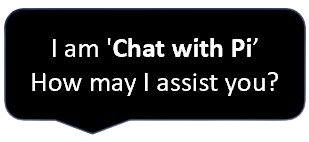
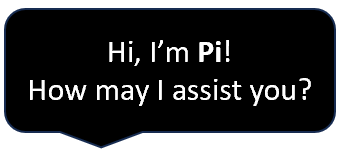
patrick changes

Changed region(s): [[0.0, 0.0282, 0.9903, 0.9577], [0.0874, 0.4789, 0.932, 0.7042], [0.1456, 0.2535, 0.8447, 0.4225]]

diff --git a/src/components/home/ChatAnswerCrad.js b/src/components/home/ChatAnswerCrad.js
@@ -75,7 +75,8 @@ function ChatAnswerCrad(prop) {
 
       <div className='d-flex justify-content-end w-100'>
         <div className='d-flex gap-2 chatAnswerLike flex-row-reverse'>
-          <svg width="10" height="30" viewBox="0 0 38 38" fill="none" xmlns="http://www.w3.org/2000/svg" style={{ width: '80%' }}><path d="M14.2503 22.1666L15.422 22.3613C15.4503 22.1912 15.4412 22.017 15.3953 21.8508C15.3494 21.6845 15.2679 21.5303 15.1564 21.3987C15.0449 21.2672 14.9061 21.1615 14.7496 21.089C14.5932 21.0166 14.4228 20.979 14.2503 20.9791V22.1666ZM31.667 22.1666V23.3541C31.9819 23.3541 32.284 23.229 32.5067 23.0063C32.7294 22.7836 32.8545 22.4815 32.8545 22.1666H31.667ZM28.5003 5.14575H10.5137V7.52075H28.5003V5.14575ZM8.61366 23.3541H14.2503V20.9791H8.61366V23.3541ZM13.0787 21.9718L11.8025 29.6273L14.1458 30.0183L15.422 22.3613L13.0787 21.9718ZM14.5353 32.8541H14.8742V30.4791H14.5369L14.5353 32.8541ZM19.8157 30.2099L23.7978 24.236L21.8218 22.9187L17.8397 28.8926L19.8157 30.2099ZM25.4445 23.3541H31.667V20.9791H25.4445V23.3541ZM32.8545 22.1666V9.49992H30.4795V22.1666H32.8545ZM6.24341 8.64492L4.34341 18.1449L6.67091 18.612L8.57091 9.112L6.24341 8.64492ZM23.7978 24.236C23.9785 23.9648 24.2233 23.744 24.5106 23.5901C24.7978 23.4363 25.1186 23.3557 25.4445 23.3557V20.9807C23.9878 20.9807 22.6293 21.7074 21.8218 22.9187L23.7978 24.236ZM11.8025 29.6273C11.7363 30.0242 11.7573 30.4324 11.8641 30.8204C11.971 31.2084 12.161 31.5685 12.4211 31.8756C12.6812 32.1827 13.0051 32.4294 13.3702 32.5987C13.7353 32.7679 14.1329 32.8541 14.5353 32.8541V30.4807C14.4779 30.4805 14.4213 30.4679 14.3692 30.4437C14.3172 30.4195 14.2711 30.3842 14.234 30.3404C14.197 30.2966 14.1699 30.2452 14.1547 30.1899C14.1394 30.1345 14.1364 30.0749 14.1458 30.0183L11.8025 29.6273ZM8.61366 20.9807C8.32082 20.9807 8.03162 20.9158 7.76691 20.7906C7.5022 20.6653 7.26858 20.4829 7.08289 20.2565C6.89721 20.0301 6.76408 19.7653 6.69311 19.4812C6.62214 19.1971 6.6151 18.9007 6.67249 18.6136L4.34341 18.1465C4.21714 18.7782 4.23263 19.4317 4.38874 20.0567C4.54486 20.6817 4.83771 21.2643 5.24619 21.7624C5.65468 22.2605 6.16861 22.6618 6.75093 22.9374C7.33325 23.2129 7.96945 23.3557 8.61366 23.3557V20.9807ZM10.5137 5.14575C9.50712 5.14555 8.5316 5.49566 7.75307 6.13362C6.97453 6.77158 6.44106 7.65798 6.24341 8.64492L8.57091 9.112C8.66034 8.66268 8.90287 8.25988 9.25716 7.96941C9.61144 7.67894 10.0555 7.52037 10.5137 7.52075V5.14575ZM14.8742 32.8541C15.8516 32.854 16.8139 32.6142 17.6757 32.153C18.5374 31.6917 19.272 31.0248 19.8142 30.2115L17.8397 28.8942C17.5143 29.3824 17.0733 29.7826 16.556 30.0594C16.0386 30.3362 15.4609 30.4793 14.8742 30.4791V32.8541ZM28.5003 7.52075C29.5928 7.52075 30.4795 8.40742 30.4795 9.49992H32.8545C32.8545 8.34512 32.3958 7.23762 31.5792 6.42106C30.7626 5.60449 29.6551 5.14575 28.5003 5.14575V7.52075Z" fill="#111111"></path><path d="M25.334 22.1666V6.33325" stroke="#111111" stroke-width="1.5"></path></svg>
+          <svg width="10" height="30" viewBox="0 0 38 38" fill="none" xmlns="http://www.w3.org/2000/svg" style={{ width: '80%' }}>
+                  <path  d="M14.2503 22.1666L15.422 22.3613C15.4503 22.1912 15.4412 22.017 15.3953 21.8508C15.3494 21.6845 15.2679 21.5303 15.1564 21.3987C15.0449 21.2672 14.9061 21.1615 14.7496 21.089C14.5932 21.0166 14.4228 20.979 14.2503 20.9791V22.1666ZM31.667 22.1666V23.3541C31.9819 23.3541 32.284 23.229 32.5067 23.0063C32.7294 22.7836 32.8545 22.4815 32.8545 22.1666H31.667ZM28.5003 5.14575H10.5137V7.52075H28.5003V5.14575ZM8.61366 23.3541H14.2503V20.9791H8.61366V23.3541ZM13.0787 21.9718L11.8025 29.6273L14.1458 30.0183L15.422 22.3613L13.0787 21.9718ZM14.5353 32.8541H14.8742V30.4791H14.5369L14.5353 32.8541ZM19.8157 30.2099L23.7978 24.236L21.8218 22.9187L17.8397 28.8926L19.8157 30.2099ZM25.4445 23.3541H31.667V20.9791H25.4445V23.3541ZM32.8545 22.1666V9.49992H30.4795V22.1666H32.8545ZM6.24341 8.64492L4.34341 18.1449L6.67091 18.612L8.57091 9.112L6.24341 8.64492ZM23.7978 24.236C23.9785 23.9648 24.2233 23.744 24.5106 23.5901C24.7978 23.4363 25.1186 23.3557 25.4445 23.3557V20.9807C23.9878 20.9807 22.6293 21.7074 21.8218 22.9187L23.7978 24.236ZM11.8025 29.6273C11.7363 30.0242 11.7573 30.4324 11.8641 30.8204C11.971 31.2084 12.161 31.5685 12.4211 31.8756C12.6812 32.1827 13.0051 32.4294 13.3702 32.5987C13.7353 32.7679 14.1329 32.8541 14.5353 32.8541V30.4807C14.4779 30.4805 14.4213 30.4679 14.3692 30.4437C14.3172 30.4195 14.2711 30.3842 14.234 30.3404C14.197 30.2966 14.1699 30.2452 14.1547 30.1899C14.1394 30.1345 14.1364 30.0749 14.1458 30.0183L11.8025 29.6273ZM8.61366 20.9807C8.32082 20.9807 8.03162 20.9158 7.76691 20.7906C7.5022 20.6653 7.26858 20.4829 7.08289 20.2565C6.89721 20.0301 6.76408 19.7653 6.69311 19.4812C6.62214 19.1971 6.6151 18.9007 6.67249 18.6136L4.34341 18.1465C4.21714 18.7782 4.23263 19.4317 4.38874 20.0567C4.54486 20.6817 4.83771 21.2643 5.24619 21.7624C5.65468 22.2605 6.16861 22.6618 6.75093 22.9374C7.33325 23.2129 7.96945 23.3557 8.61366 23.3557V20.9807ZM10.5137 5.14575C9.50712 5.14555 8.5316 5.49566 7.75307 6.13362C6.97453 6.77158 6.44106 7.65798 6.24341 8.64492L8.57091 9.112C8.66034 8.66268 8.90287 8.25988 9.25716 7.96941C9.61144 7.67894 10.0555 7.52037 10.5137 7.52075V5.14575ZM14.8742 32.8541C15.8516 32.854 16.8139 32.6142 17.6757 32.153C18.5374 31.6917 19.272 31.0248 19.8142 30.2115L17.8397 28.8942C17.5143 29.3824 17.0733 29.7826 16.556 30.0594C16.0386 30.3362 15.4609 30.4793 14.8742 30.4791V32.8541ZM28.5003 7.52075C29.5928 7.52075 30.4795 8.40742 30.4795 9.49992H32.8545C32.8545 8.34512 32.3958 7.23762 31.5792 6.42106C30.7626 5.60449 29.6551 5.14575 28.5003 5.14575V7.52075Z" fill="#111111"></path><path d="M25.334 22.1666V6.33325" stroke="#111111" stroke-width="1.5"></path></svg>
           <svg width="30" height="30" viewBox="0 0 38 38" fill="none" xmlns="http://www.w3.org/2000/svg" style={{ width: '80%' }}><path d="M23.7497 15.8334L22.578 15.6387C22.5497 15.8088 22.5588 15.983 22.6047 16.1492C22.6506 16.3155 22.7321 16.4697 22.8436 16.6013C22.9551 16.7328 23.0939 16.8385 23.2504 16.911C23.4068 16.9834 23.5772 17.021 23.7497 17.0209L23.7497 15.8334ZM6.33301 15.8334L6.33301 14.6459C6.01806 14.6459 5.71602 14.771 5.49332 14.9937C5.27062 15.2164 5.14551 15.5185 5.14551 15.8334L6.33301 15.8334ZM9.49967 32.8542L27.4863 32.8542L27.4863 30.4792L9.49967 30.4792L9.49967 32.8542ZM29.3863 14.6459L23.7497 14.6459L23.7497 17.0209L29.3863 17.0209L29.3863 14.6459ZM24.9213 16.0282L26.1975 8.37275L23.8542 7.98166L22.578 15.6387L24.9213 16.0282ZM23.4647 5.14591L23.1258 5.14591L23.1258 7.52091L23.4631 7.52091L23.4647 5.14591ZM18.1843 7.79008L14.2022 13.764L16.1782 15.0813L20.1603 9.10742L18.1843 7.79008ZM12.5555 14.6459L6.33301 14.6459L6.33301 17.0209L12.5555 17.0209L12.5555 14.6459ZM5.14551 15.8334L5.14551 28.5001L7.52051 28.5001L7.52051 15.8334L5.14551 15.8334ZM31.7566 29.3551L33.6566 19.8551L31.3291 19.388L29.4291 28.888L31.7566 29.3551ZM14.2022 13.764C14.0215 14.0352 13.7767 14.256 13.4894 14.4099C13.2022 14.5637 12.8814 14.6442 12.5555 14.6443L12.5555 17.0193C14.0122 17.0193 15.3707 16.2926 16.1782 15.0813L14.2022 13.764ZM26.1975 8.37275C26.2637 7.9758 26.2427 7.5676 26.1359 7.1796C26.029 6.7916 25.839 6.43154 25.5789 6.12444C25.3188 5.81733 24.9949 5.57057 24.6298 5.40132C24.2647 5.23206 23.8671 5.14595 23.4647 5.14591L23.4647 7.51933C23.5221 7.51947 23.5787 7.53209 23.6308 7.55631C23.6828 7.58054 23.7289 7.61579 23.766 7.65962C23.803 7.70345 23.8301 7.75481 23.8453 7.81015C23.8606 7.86548 23.8636 7.92505 23.8542 7.98166L26.1975 8.37275ZM29.3863 17.0193C29.6792 17.0193 29.9684 17.0842 30.2331 17.2094C30.4978 17.3347 30.7314 17.5171 30.9171 17.7435C31.1028 17.9699 31.2359 18.2347 31.3069 18.5188C31.3779 18.8029 31.3849 19.0993 31.3275 19.3864L33.6566 19.8535C33.7829 19.2218 33.7674 18.5683 33.6113 17.9433C33.4551 17.3183 33.1623 16.7357 32.7538 16.2376C32.3453 15.7395 31.8314 15.3382 31.2491 15.0626C30.6667 14.7871 30.0305 14.6443 29.3863 14.6443L29.3863 17.0193ZM27.4863 32.8542C28.4929 32.8544 29.4684 32.5043 30.2469 31.8664C31.0255 31.2284 31.5589 30.342 31.7566 29.3551L29.4291 28.888C29.3397 29.3373 29.0971 29.7401 28.7428 30.0306C28.3886 30.3211 27.9445 30.4796 27.4863 30.4792L27.4863 32.8542ZM23.1258 5.14591C22.1484 5.14598 21.1861 5.38578 20.3243 5.84704C19.4626 6.30831 18.728 6.97519 18.1858 7.7885L20.1603 9.10583C20.4857 8.61762 20.9267 8.21736 21.444 7.94059C21.9614 7.66382 22.5391 7.5207 23.1258 7.52091L23.1258 5.14591ZM9.49967 30.4792C8.40717 30.4792 7.52051 29.5926 7.52051 28.5001L5.14551 28.5001C5.14551 29.6549 5.60425 30.7624 6.42081 31.5789C7.23738 32.3955 8.34488 32.8542 9.49967 32.8542L9.49967 30.4792Z" fill="#111111"></path><path d="M12.666 15.8334L12.666 31.6667" stroke="#111111" stroke-width="1.5"></path></svg>
         </div>
         <span className='timeview text-muted ps-3'>{new Date(prop.answer.time_stamp).toLocaleTimeString('en-US', { hour: '2-digit', minute: '2-digit' })}</span>

diff --git a/src/components/home/NavBarHome.js b/src/components/home/NavBarHome.js
@@ -3,8 +3,6 @@ import './NavBarHome.scss'
 import HomeTitleImg from '../assets/title.png'
 
 import pocaAImg from '../assets/nexus.png'
-import { useRecoilValue } from 'recoil'
-import { loginMailId } from '../utilites/loginRecoil'
 import NavBarHomeUser from './NavBarHomeUser'
 function NavBarHome(prop) {
     const [inputvalue, setInputvalue] = useState(null)
@@ -22,29 +20,29 @@ prop.setmenuHovered(true)
     }
     return (
         <div className='navHome-container'>
-            <ul className='navHome-options bg-white  d-flex align-items-center justify-content-between ps-0'>
+            <ul className='navHome-options bg-white  d-flex align-items-center justify-content-between gap-5 ps-0'>
                 <li className='navHome-optionlogo d-flex align-items-center justify-content-between'>
                     <span className='navHome-optionlogoMenu' onMouseEnter={logoMenuMouseEnterHandle} onMouseLeave={logoMenuMouseLeaveHandle}><svg width="56" height="45" class="MuiSvgIcon-root MuiSvgIcon-fontSizeMedium css-ojjv62-MuiSvgIcon-root" fill="#A1A1A1" focusable="false" aria-hidden="true" viewBox="0 0 24 24" data-testid="SortIcon"><path d="M3 18h6v-2H3v2zM3 6v2h18V6H3zm0 7h12v-2H3v2z"></path></svg></span>
                     <img className='navHomeOptionTitle-img' src={HomeTitleImg} alt='Image of company Logo'></img>
                 </li>
-                <li className='navHome-optionSearch  align-items-center justify-content-between ps-4'>
+                {/* <li className='navHome-optionSearch  align-items-center justify-content-between ps-4'>
                     <i class="bi bi-search text-muted"></i>
                     <input type='text' className='navHomeoptionSearch-input' placeholder='Search in Discovery...' onChange={inputChangeHandler} value={inputvalue}></input>
                     {inputvalue != null && <i class="bi bi-x text-center" onClick={() => { setInputvalue('') }}></i>}
                     <button className='navHomeoptionSearch-btn text-white'>Search</button>
-                </li>
+                </li> */}
                
-                <li className='navHome-option-nexus flex items-center mx-3'>
-                    <img src={pocaAImg} className='nexusImg'></img>
+                <li className='navHome-option-nexus flex me-5'>
+                    <img src={pocaAImg} className='nexusImg pt-1'></img>
                 </li>
-                <li className='navHome-optionIcons align-items-center gap-2'>
+                {/* <li className='navHome-optionIcons align-items-center gap-2'>
                     <span ><svg width="35" height="35" viewBox="0 0 31 31" fill="none" xmlns="http://www.w3.org/2000/svg" style={{ width: '60%' }}><circle cx="3.69048" cy="3.69048" r="3.69048" fill="#A1A1A1"></circle><circle cx="15.4991" cy="3.69048" r="3.69048" fill="#A1A1A1"></circle><circle cx="27.3096" cy="3.69048" r="3.69048" fill="#A1A1A1"></circle><circle cx="3.69048" cy="15.5" r="3.69048" fill="#A1A1A1"></circle><circle cx="15.4991" cy="15.5" r="3.69048" fill="#A1A1A1"></circle><circle cx="27.3096" cy="15.5" r="3.69048" fill="#A1A1A1"></circle><circle cx="3.69048" cy="27.3096" r="3.69048" fill="#A1A1A1"></circle><circle cx="15.4991" cy="27.3096" r="3.69048" fill="#A1A1A1"></circle><circle cx="27.3096" cy="27.3096" r="3.69048" fill="#A1A1A1"></circle></svg></span>
                     <span className='navHome-optionIconsHolder'><svg viewBox="0 0 22 22" fill='none' xmlns="http://www.w3.org/2000/svg"><g clip-path="url(#clip0_3101_16189)"><path d="M12.8333 2.75V6.41667C12.8333 6.65978 12.9299 6.89294 13.1018 7.06485C13.2737 7.23676 13.5069 7.33333 13.75 7.33333H17.4167" stroke="black" stroke-width="1.5" stroke-linecap="round" stroke-linejoin="round"></path><path d="M10.5417 19.25H6.41667C5.93044 19.25 5.46412 19.0568 5.12031 18.713C4.77649 18.3692 4.58334 17.9029 4.58334 17.4167V4.58333C4.58334 4.0971 4.77649 3.63079 5.12031 3.28697C5.46412 2.94315 5.93044 2.75 6.41667 2.75H12.8333L17.4167 7.33333V11.9167M12.8333 17.4167H19.25M19.25 17.4167L16.5 14.6667M19.25 17.4167L16.5 20.1667" stroke="black" stroke-width="1.5" stroke-linecap="round" stroke-linejoin="round"></path></g><defs><clipPath id="clip0_3101_16189"><rect width="22" height="22" fill="white"></rect></clipPath></defs></svg></span>
                     <span className='navHome-optionIconsHolder'><svg viewBox="0 0 24 24" fill="none" xmlns="http://www.w3.org/2000/svg"><path d="M19 13.586V10C19 6.783 16.815 4.073 13.855 3.258C13.562 2.52 12.846 2 12 2C11.154 2 10.438 2.52 10.145 3.258C7.185 4.074 5 6.783 5 10V13.586L3.293 15.293C3.19996 15.3857 3.12617 15.4959 3.07589 15.6172C3.0256 15.7386 2.99981 15.8687 3 16V18C3 18.2652 3.10536 18.5196 3.29289 18.7071C3.48043 18.8946 3.73478 19 4 19H20C20.2652 19 20.5196 18.8946 20.7071 18.7071C20.8946 18.5196 21 18.2652 21 18V16C21.0002 15.8687 20.9744 15.7386 20.9241 15.6172C20.8738 15.4959 20.8 15.3857 20.707 15.293L19 13.586ZM19 17H5V16.414L6.707 14.707C6.80004 14.6143 6.87383 14.5041 6.92412 14.3828C6.9744 14.2614 7.00019 14.1313 7 14V10C7 7.243 9.243 5 12 5C14.757 5 17 7.243 17 10V14C17 14.266 17.105 14.52 17.293 14.707L19 16.414V17ZM12 22C12.6193 22.0008 13.2235 21.8086 13.7285 21.4502C14.2335 21.0917 14.6143 20.5849 14.818 20H9.182C9.38566 20.5849 9.76648 21.0917 10.2715 21.4502C10.7765 21.8086 11.3807 22.0008 12 22Z" fill="black"></path></svg></span>
                     <span className='navHome-optionIconsHolder' style={{ width: '0.75vw' }}><svg viewBox="0 0 10 15" fill="none" xmlns="http://www.w3.org/2000/svg" sx="[object Object]"><path d="M3.42614 10.0753V9.85795C3.4304 9.11222 3.49645 8.51776 3.62429 8.07457C3.75639 7.63139 3.94815 7.27344 4.19957 7.00071C4.45099 6.72798 4.75355 6.48082 5.10724 6.25923C5.37145 6.08878 5.60795 5.91193 5.81676 5.72869C6.02557 5.54545 6.19176 5.34304 6.31534 5.12145C6.43892 4.8956 6.50071 4.64418 6.50071 4.36719C6.50071 4.07315 6.4304 3.81534 6.28977 3.59375C6.14915 3.37216 5.95952 3.2017 5.72088 3.08239C5.48651 2.96307 5.22656 2.90341 4.94105 2.90341C4.66406 2.90341 4.40199 2.9652 4.15483 3.08878C3.90767 3.2081 3.70526 3.38707 3.54759 3.62571C3.38991 3.86009 3.30469 4.15199 3.2919 4.50142H0.683949C0.705256 3.64915 0.909801 2.94602 1.29759 2.39205C1.68537 1.83381 2.19886 1.41832 2.83807 1.1456C3.47727 0.868607 4.18253 0.730113 4.95384 0.730113C5.80185 0.730113 6.55185 0.870738 7.20384 1.15199C7.85582 1.42898 8.36719 1.83168 8.73793 2.36009C9.10867 2.88849 9.29403 3.52557 9.29403 4.27131C9.29403 4.76989 9.21094 5.21307 9.04474 5.60085C8.88281 5.98437 8.65483 6.32528 8.3608 6.62358C8.06676 6.91761 7.71946 7.18395 7.31889 7.42259C6.98224 7.62287 6.70526 7.83168 6.48793 8.04901C6.27486 8.26634 6.11506 8.51776 6.00852 8.80327C5.90625 9.08878 5.85298 9.44034 5.84872 9.85795V10.0753H3.42614ZM4.69176 14.1662C4.26562 14.1662 3.90128 14.017 3.59872 13.7188C3.30043 13.4162 3.15341 13.054 3.15767 12.6321C3.15341 12.2145 3.30043 11.8565 3.59872 11.5582C3.90128 11.2599 4.26562 11.1108 4.69176 11.1108C5.09659 11.1108 5.45242 11.2599 5.75923 11.5582C6.06605 11.8565 6.22159 12.2145 6.22585 12.6321C6.22159 12.9134 6.14702 13.1712 6.00213 13.4055C5.86151 13.6357 5.67614 13.821 5.44602 13.9616C5.21591 14.098 4.96449 14.1662 4.69176 14.1662Z" fill="black"></path></svg></span>
-                </li>
+                </li> */}
 
-                <NavBarHomeUser/>
+                {/* <NavBarHomeUser/> */}
 
             </ul>
         </div>

diff --git a/src/components/home/ChatModal.js b/src/components/home/ChatModal.js
@@ -309,9 +309,9 @@ function ChatModal(prop) {
                                 <div>
 
                                     <li class="list-group-item exceIcons d-flex justify-content-between">
-                                        <div className='list-group-itemIcons frstlist-group-item d-flex gap-4 '>
+                                        <div className='list-group-itemIcons frstlist-group-item d-flex gap-2 '>
                                             <svg onClick={feedbackEmailContainerHandler} className='feedbkIcon' width="30" height="30" viewBox="0 0 34 34" fill="none" xmlns="http://www.w3.org/2000/svg" style={{ width: '50%' }}><path d="M16.0417 21.4158C17.0192 21.8025 17.9117 22.3168 18.7149 22.9564C19.5182 23.5939 20.2045 24.3376 20.7762 25.1791C21.942 26.8771 22.5699 28.8867 22.5782 30.9464V31.875H20.7188V30.9443C20.7228 29.8452 20.5078 28.7565 20.0864 27.7414C19.665 26.7264 19.0456 25.8055 18.2644 25.0325C17.4976 24.2766 16.5959 23.6711 15.606 23.2475C14.5772 22.8067 13.4698 22.579 12.3505 22.5781C11.2515 22.5741 10.1627 22.7891 9.14773 23.2105C8.13271 23.6319 7.21181 24.2513 6.43879 25.0325C5.68312 25.7995 5.07769 26.7011 4.65379 27.6909C4.21604 28.6981 3.99503 29.784 3.98441 30.9443V31.875H2.12503V30.9443C2.1196 28.8831 2.74875 26.8703 3.92703 25.1791C5.10066 23.4859 6.74857 22.1773 8.66366 21.4179C8.2286 21.1189 7.83243 20.767 7.48428 20.3703C7.14027 19.9797 6.84289 19.5504 6.59816 19.091C6.35439 18.6321 6.16879 18.1445 6.04566 17.6396C5.9201 17.1253 5.85239 16.5986 5.84378 16.0693C5.84378 15.1704 6.01378 14.3267 6.35379 13.5426C7.01861 11.9891 8.2559 10.751 9.80904 10.0852C10.6103 9.74415 11.4718 9.5671 12.3427 9.56454C13.2135 9.56199 14.076 9.73399 14.8793 10.0704C16.4332 10.7357 17.6713 11.9738 18.3367 13.5278C18.8869 14.8217 19.0039 16.2588 18.6703 17.6247C18.5428 18.1284 18.3558 18.6129 18.105 19.0782C17.8559 19.5389 17.5589 19.9719 17.2189 20.3703C16.8789 20.7676 16.4858 21.114 16.0417 21.4158ZM12.3505 20.7188C12.9902 20.7188 13.5915 20.5976 14.1525 20.3575C15.2648 19.8849 16.1501 18.9988 16.6218 17.8861C16.8747 17.3145 17 16.7089 17 16.0714C17.0028 15.4629 16.8832 14.86 16.6485 14.2986C16.4138 13.7372 16.0687 13.2286 15.6337 12.8031C15.2034 12.3835 14.7018 12.0439 14.1525 11.8001C13.5857 11.547 12.9713 11.418 12.3505 11.4219C11.713 11.4219 11.1117 11.543 10.5507 11.7831C9.43224 12.2602 8.54144 13.151 8.06441 14.2694C7.82429 14.8304 7.70316 15.4318 7.70316 16.0714C7.70316 16.7089 7.82429 17.3102 8.06441 17.8712C8.30878 18.4322 8.63816 18.9274 9.05466 19.3524C9.48584 19.7881 9.99963 20.1334 10.5659 20.368C11.1322 20.6026 11.7397 20.7219 12.3527 20.7188H12.3505ZM31.875 2.125V17H28.1563L22.5782 22.5781V17H20.7188V15.1406H24.4375V18.0901L27.387 15.1406H30.0157V3.98438H11.4219V7.32488C11.1102 7.36426 10.7998 7.41315 10.4912 7.4715C10.1746 7.53159 9.86393 7.61905 9.56254 7.73287V2.125H31.875Z" fill="#111111"></path></svg>
-                                            <svg width="30" onClick={sendMailHandle} className='sendmailIcon' height="30" viewBox="0 0 36 36" fill="none" xmlns="http://www.w3.org/2000/svg" style={{ width: '50%' }}><path d="M7.3125 5.625C5.96984 5.625 4.68217 6.15837 3.73277 7.10777C2.78337 8.05717 2.25 9.34484 2.25 10.6875V25.3125C2.25 26.6552 2.78337 27.9428 3.73277 28.8922C4.68217 29.8416 5.96984 30.375 7.3125 30.375H28.6875C30.0302 30.375 31.3178 29.8416 32.2672 28.8922C33.2166 27.9428 33.75 26.6552 33.75 25.3125V10.6875C33.75 9.34484 33.2166 8.05717 32.2672 7.10777C31.3178 6.15837 30.0302 5.625 28.6875 5.625H7.3125ZM31.5 11.7034L18 18.972L4.5 11.7034V10.6875C4.5 9.94158 4.79632 9.22621 5.32376 8.69876C5.85121 8.17132 6.56658 7.875 7.3125 7.875H28.6875C29.4334 7.875 30.1488 8.17132 30.6762 8.69876C31.2037 9.22621 31.5 9.94158 31.5 10.6875V11.7034ZM4.5 14.2582L17.4668 21.2411C17.6306 21.3294 17.8139 21.3755 18 21.3755C18.1861 21.3755 18.3694 21.3294 18.5333 21.2411L31.5 14.2582V25.3125C31.5 26.0584 31.2037 26.7738 30.6762 27.3012C30.1488 27.8287 29.4334 28.125 28.6875 28.125H7.3125C6.56658 28.125 5.85121 27.8287 5.32376 27.3012C4.79632 26.7738 4.5 26.0584 4.5 25.3125V14.2582Z" fill="#111111"></path></svg>
+                                            {/* <svg width="30" onClick={sendMailHandle} className='sendmailIcon' height="30" viewBox="0 0 36 36" fill="none" xmlns="http://www.w3.org/2000/svg" style={{ width: '50%' }}><path d="M7.3125 5.625C5.96984 5.625 4.68217 6.15837 3.73277 7.10777C2.78337 8.05717 2.25 9.34484 2.25 10.6875V25.3125C2.25 26.6552 2.78337 27.9428 3.73277 28.8922C4.68217 29.8416 5.96984 30.375 7.3125 30.375H28.6875C30.0302 30.375 31.3178 29.8416 32.2672 28.8922C33.2166 27.9428 33.75 26.6552 33.75 25.3125V10.6875C33.75 9.34484 33.2166 8.05717 32.2672 7.10777C31.3178 6.15837 30.0302 5.625 28.6875 5.625H7.3125ZM31.5 11.7034L18 18.972L4.5 11.7034V10.6875C4.5 9.94158 4.79632 9.22621 5.32376 8.69876C5.85121 8.17132 6.56658 7.875 7.3125 7.875H28.6875C29.4334 7.875 30.1488 8.17132 30.6762 8.69876C31.2037 9.22621 31.5 9.94158 31.5 10.6875V11.7034ZM4.5 14.2582L17.4668 21.2411C17.6306 21.3294 17.8139 21.3755 18 21.3755C18.1861 21.3755 18.3694 21.3294 18.5333 21.2411L31.5 14.2582V25.3125C31.5 26.0584 31.2037 26.7738 30.6762 27.3012C30.1488 27.8287 29.4334 28.125 28.6875 28.125H7.3125C6.56658 28.125 5.85121 27.8287 5.32376 27.3012C4.79632 26.7738 4.5 26.0584 4.5 25.3125V14.2582Z" fill="#111111"></path></svg> */}
                                             <svg width="10" className='readLoudIcon'  onClick={readLoudHandler} height="30" viewBox="0 0 32 32" fill="none" xmlns="http://www.w3.org/2000/svg" style={{ width: '47%' }}><path d="M21 2C21 2 25 6 25 16C25 26 21 30 21 30M27 4C27 4 30 8 30 16C30 24 27 28 27 28M20 16C20 8 15 2 15 2L8 10H2V22H8L15 30C15 30 20 24 20 16Z" stroke="#111111" stroke-width="2" stroke-linecap="round" stroke-linejoin="round"></path></svg>
                                         </div>
 

diff --git a/src/components/home/HomeStartOptions.js b/src/components/home/HomeStartOptions.js
@@ -13,7 +13,7 @@ function HomeStartOptions() {
     return (
         <div className='whole rounded' >
         <ul className='HomeStartOptions-container'>
-            <li className='HomeStartOptions-option homelist' onClick={homeClickHandle}>
+            <li className='HomeStartOptions-option homelist mt-5' onClick={homeClickHandle}>
                 <div className='HomeStartOption-cnt py-2 ps-2'>
                   <svg width="20" height="20" viewBox="0 0 27 26" fill="none" xmlns="http://www.w3.org/2000/svg">
                         <path d="M3.19274 7.96243L11.0838 1.83046C11.7763 1.29223 12.6286 1 13.506 1C14.3833 1 15.2357 1.29223 15.9282 1.83046L23.8207 7.96243C24.295 8.33095 24.6788 8.80289 24.9426 9.3422C25.2065 9.88152 25.3435 10.4739 25.3433 11.0742V21.718C25.3433 22.5021 25.0315 23.2541 24.4765 23.8086C23.9215 24.3631 23.1688 24.6746 22.3839 24.6746H4.62801C3.84315 24.6746 3.09043 24.3631 2.53545 23.8086C1.98047 23.2541 1.66869 22.5021 1.66869 21.718V11.0742C1.66869 9.85761 2.23096 8.70897 3.19274 7.96243Z" stroke="#929292" stroke-width="2" stroke-linecap="round" stroke-linejoin="round" />
@@ -22,7 +22,7 @@ function HomeStartOptions() {
                     <span className='HomeStartOption-hdng '>Home</span>
                 </div>
             </li>
-            <li className='HomeStartOptions-option'>
+            {/* <li className='HomeStartOptions-option'>
                 <div className='HomeStartOption-cnt py-2 ps-2'>
                 <svg width="20" height="20" viewBox="0 0 21 21" fill="none" xmlns="http://www.w3.org/2000/svg">
                         <path d="M14.9865 1H17.2904C18.5628 1 19.5942 1.96271 19.5942 3.15027V4.2254C19.5942 5.41296 18.5628 6.37567 17.2904 6.37567H14.9865C13.7141 6.37567 12.6827 5.41296 12.6827 4.2254V3.15027C12.6827 1.96271 13.7141 1 14.9865 1Z" stroke="#84838F" stroke-width="2" stroke-linecap="round" stroke-linejoin="round" />
@@ -83,7 +83,7 @@ function HomeStartOptions() {
                     </svg>
                     <span className='HomeStartOption-hdng'>Settings</span>
                 </div>
-            </li>
+            </li> */}
           
         </ul>
         </div>

diff --git a/src/components/home/Home.js b/src/components/home/Home.js
@@ -5,7 +5,8 @@ import ChatModal from './ChatModal'
 import HomeStartOptions from './HomeStartOptions'
 import ExecutiveBoardSection from './ExecutiveBoardSection'
 import StoryBoard from './StoryBoard'
-import chatBot_text from '../assets/Home/chatPI.gif'
+import chatBot_text from '../assets/Home/chatbotani1.gif'
+import chatBot_image from '../assets/Home/chatBot_text.png'
 function Home() {
     const [chatboxShow, setChatboxShow] = useState(false)
     const [menuHovered, setmenuHovered] = useState(false)
@@ -69,7 +70,8 @@ function Home() {
                 <NavBarHome setmenuHovered={setmenuHovered} />
 
                 <div className='homePage-maincontent pt-2'>
-                <div className='mainfrst bg-white rounded border' onMouseEnter={startOptMouseEnterHandle} onMouseLeave={startOptMouseLeaveHandle}><HomeStartOptions /></div>
+                {/* <div className='mainfrst bg-white rounded border' onMouseEnter={startOptMouseEnterHandle} onMouseLeave={startOptMouseLeaveHandle}><HomeStartOptions /></div> */}
+                <div className='mainfrst bg-white rounded border'><HomeStartOptions /></div>
 
                     <div className='holdercup'>
 
@@ -92,8 +94,7 @@ function Home() {
             <div className='chatBot' >
             
                 <img src={chatBot_text} className='chatBot_Img'onMouseEnter={hoverChatBot} onMouseLeave={normalChatBot} onClick={chatbotClickHandle} data-bs-toggle="offcanvas" data-bs-target="#offcanvasScrolling" aria-controls="offcanvasScrolling"></img>
-           
-           
+                <img src={chatBot_image} className='chatBot_text' onClick={chatbotClickHandle} data-bs-toggle="offcanvas" data-bs-target="#offcanvasScrolling" aria-controls="offcanvasScrolling"></img>
              </div>
 
             <div className='chatmodalHold'><ChatModal setChatboxShow={setChatboxShow} /></div>

diff --git a/src/components/home/ExecutiveBoardSection.js b/src/components/home/ExecutiveBoardSection.js
@@ -9,14 +9,14 @@ function ExecutiveBoardSection() {
             <div class="HomeMidCnt-frst w-100 h-100" >
                 <ul class="list-group list-group-flush">
                     <li class="list-group-item d-flex">
-                        <span className='HomeMidCnt-frsthdng  HomeMidCnt-frsthdngSel text-muted'>Chat with POCA</span>
+                        <span className='HomeMidCnt-frsthdng  HomeMidCnt-frsthdngSel text-muted'>Chat with Pi</span>
                       
                     </li>
                     <li class="list-group-item">
                         <div className='executiveInfo d-flex flex-column gap-4 pt-3'>
                             <ol className='executiveInfo-instrction text-danger fw-bold'>Instructions:<li className='executiveInfo-instrctionSm fw-normal ps-1 ' style={{fontSize:'small'}}>Ensure clarity and specificity when framing your questions to receive swift and effective answers.</li>
                             <li className='executiveInfo-instrctionSm fw-normal ps-1' style={{fontSize:'small'}}>Please choose the 'POCA Scoring System' option in the chat window's toggle feature, Note that 'DLBE' is the default selection.</li></ol>
-                            <span className='executiveInfoScndLine '>Welcome to Chat with POCA! <br/>POCA is updated with FY24 data now. I'm your AI assistant and ask me anything about POCA.</span>
+                            <span className='executiveInfoScndLine '>Welcome to Chat with Pi! <br/>POCA is updated with FY24 data now. I'm your AI assistant and ask me anything about POCA.</span>
                       
                        <span className='executiveInfoThirdLine'>For starters, you can ask me questions such as :</span>
                       

diff --git a/src/components/home/Home.scss b/src/components/home/Home.scss
@@ -106,7 +106,8 @@ $md: 768px;
   position: relative;
   display: flex;
   flex-direction: column;
-  justify-content: space-evenly;
+  // justify-content: space-around;
+  
 
   @include md {
     min-height: 60vh;
@@ -215,32 +216,32 @@ $md: 768px;
 }
 
 
-.chatBot {
-  position: absolute;
-  bottom: 2vh;
-  left: 8vw;
+// .chatBot {
+//   position: absolute;
+//   bottom: 2vh;
+//   left: 8vw;
 
-  @include md {
-    bottom:2vh;
-  }
+//   @include md {
+//     bottom:2vh;
+//   }
 
-}
+// }
 
 
-.chatBot_Img{
-  mix-blend-mode: multiply;
-  position: relative;
-  width:12vw;
-  top: -2.2vh;
-  left: 1vw;
-  cursor: pointer;
-  @include md{
-  width:42vw;
-  left: -5vw;
-    // background-color: white;
-    // mix-blend-mode: initial;
-  }
-}
+// .chatBot_Img{
+//   mix-blend-mode: multiply;
+//   position: relative;
+//   width:12vw;
+//   top: -2.2vh;
+//   left: 1vw;
+//   cursor: pointer;
+//   @include md{
+//   width:42vw;
+//   left: -5vw;
+//     // background-color: white;
+//     // mix-blend-mode: initial;
+//   }
+// }
 
 // @keyframes chatBot_Img_ani {
 //   from {
@@ -250,3 +251,35 @@ $md: 768px;
 //       top: -7vh;
 //   }
 // }
+
+
+.chatBot{
+  position: absolute;
+  bottom: 3vh;
+  left: 8vw;
+  cursor: pointer;
+  @include md{
+  left: 2vw;
+  bottom: 0vh;
+  }
+}
+
+.chatBot_Img{
+  width: 9vw;
+  mix-blend-mode: multiply;
+  @include md{
+    width: 30vw;
+  }
+
+}
+.chatBot_text{
+  width: 9vw;
+  position: relative;
+  left: -3.1vw;
+  top: -3.7vh;
+  @include md{
+    width: 35vw;
+    left: -11vw;
+    top: -3.3vh;
+  }
+}

diff --git a/src/App.js b/src/App.js
@@ -1,6 +1,6 @@
 import './App.css';
 import Home from './components/home/Home';
-import { Route, Routes, useNavigate } from 'react-router-dom';
+import { Navigate, Route, Routes, useNavigate } from 'react-router-dom';
 import Login from './components/Login/Login'
 import ProtectedRoute from './components/utilites/ProtectedRoute';
 
@@ -23,9 +23,9 @@ function App() {
 
 
     <Routes>
-      <Route path="/" element={<Login />} />
-      <Route element={<ProtectedRoute />}>
-      <Route path="/home" element={<Home />} />
+      {/* <Route path="/" element={<Login />} />
+      <Route element={<ProtectedRoute />}> */}
+      <Route path="/*" element={<Home />} />
 
         {/* <Route element={<ErrorBoundary />}>
           <Route path="/home" element={<MsalAuthenticationTemplate interactionType={InteractionType.Popup}
@@ -35,9 +35,9 @@ function App() {
 
         </Route> */}
 
-      </Route>
+      {/* </Route> */}
 
-
+      {/* <Route path="*" element={<Home/>}></Route> */}
     </Routes>
 
 

diff --git a/src/index.js b/src/index.js
@@ -4,7 +4,7 @@ import './index.css';
 import App from './App';
 import reportWebVitals from './reportWebVitals';
 import { RecoilRoot } from 'recoil';
-import {HashRouter} from 'react-router-dom'
+import {BrowserRouter} from 'react-router-dom'
 
 import { PublicClientApplication } from "@azure/msal-browser";
 import { MsalProvider } from "@azure/msal-react";
@@ -18,7 +18,7 @@ const publicClientApplication = new PublicClientApplication(config);
 const root = ReactDOM.createRoot(document.getElementById('root'));
 root.render(
   <React.StrictMode>
-   <HashRouter>
+   <BrowserRouter>
    <RecoilRoot>
 
    <MsalProvider instance={publicClientApplication}>
@@ -26,7 +26,7 @@ root.render(
         </ MsalProvider>
  
    </RecoilRoot>
-   </HashRouter>
+   </BrowserRouter>
   </React.StrictMode>
 );
 

diff --git a/src/components/home/NavBarHome.scss b/src/components/home/NavBarHome.scss
@@ -25,9 +25,10 @@ $searhfieldColor: #3535b4;
     &:hover{
     background-color: $lightBackgroundColor;
     cursor: not-allowed;
-    } @include md{
-        display: none;
-    }
+    } 
+    // @include md{
+    //     display: none;
+    // }
 }
 
 .navHome-options {
@@ -154,9 +155,12 @@ $searhfieldColor: #3535b4;
     }
 }
 .nexusImg{
-    width: 8vw;
-    position: relative;
-    top: -0.5vh;
+    width: 10vw;
+    // position: relative;
+    // top: -0.5vh;
     transform: scale(1.4);
+    @include md{
+        width: 22vw;
+    }
 }
 

diff --git a/src/components/home/Chats.js b/src/components/home/Chats.js
@@ -29,7 +29,7 @@ function Chats(prop) {
         let errorIdval = Math.floor(Math.random() * (9999 - 1000 + 1)) + 1000
         let array = [
             {
-                chat_text: `Hello <b>${userName} !</b><br/> I am Course5 Discovery, How can I assist you?`,
+                chat_text: `Hello,<br/>I am <b>Pi</b>, your Partner Intelligence chat assistant. How may I assist you?`,
                 chat_type: "Answer",
                 time_stamp: currentDate,
                 new: true,
